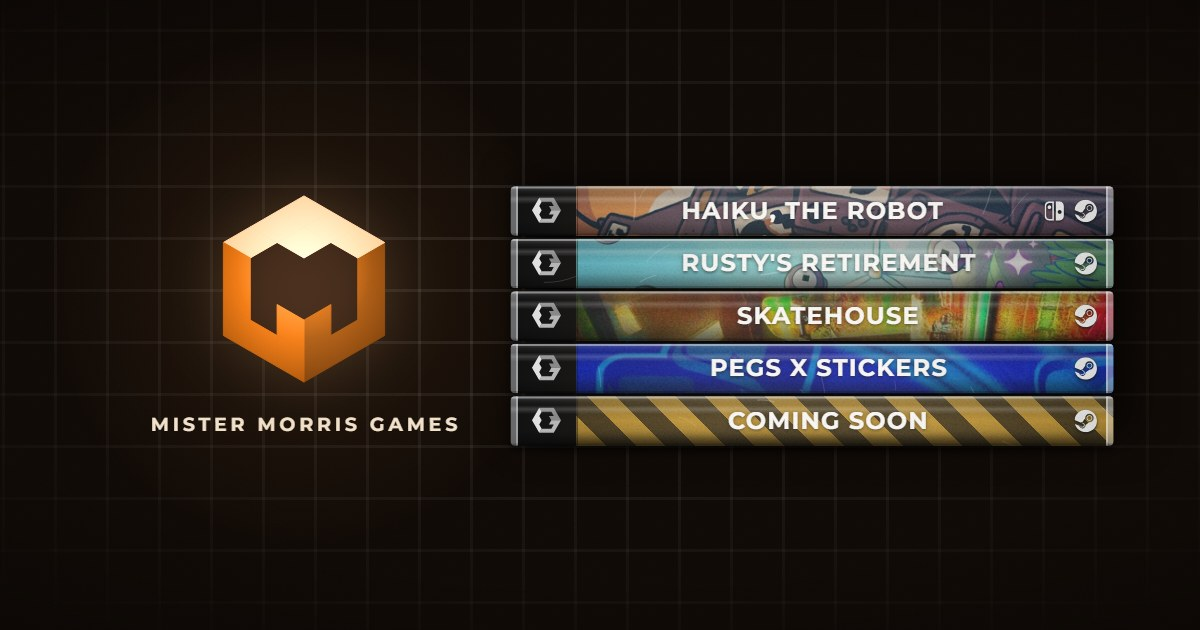
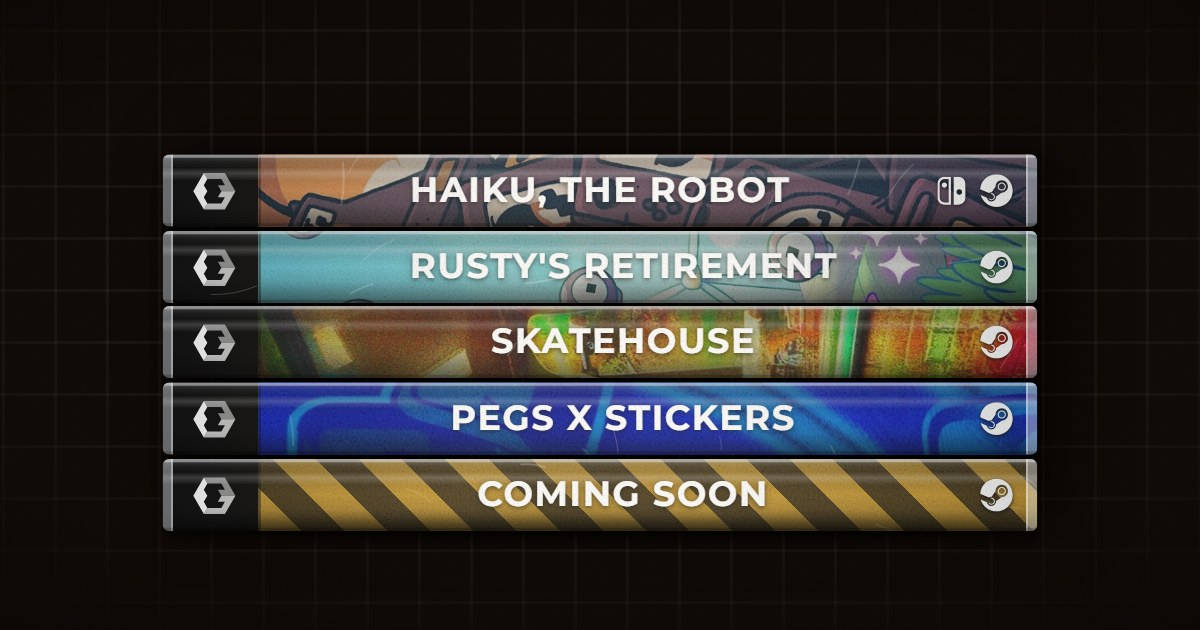
Crossed-tape Coming Soon backdrop; aligned case links; share image of the cases

diff --git a/index.html b/index.html
@@ -8,10 +8,10 @@
   <meta name="description" content="Indie games by Mister Morris Games, the studio behind Haiku, the Robot. Choose a game and take a look inside.">
   <meta name="theme-color" content="#15100c">
   <link rel="icon" href="favicon.svg" type="image/svg+xml">
-  <meta property="og:image" content="https://mistermorrisgames.github.io/website/images/share.jpg?v=7">
+  <meta property="og:image" content="https://mistermorrisgames.github.io/website/images/share.jpg?v=8">
   <meta property="og:image:width" content="1200">
   <meta property="og:image:height" content="630">
-  <meta property="og:image:alt" content="The Mister Morris Games cube logo beside a stack of game cases: Haiku, the Robot; Rusty's Retirement; Skatehouse; Pegs X Stickers; and one coming soon">
+  <meta property="og:image:alt" content="A stack of game cases: Haiku, the Robot; Rusty's Retirement; Skatehouse; Pegs X Stickers; and one coming soon">
   <meta property="og:type" content="website">
   <meta property="og:site_name" content="Mister Morris Games">
   <meta property="og:url" content="https://mistermorrisgames.github.io/website/">

diff --git a/styles.css b/styles.css
@@ -783,11 +783,14 @@ body::before {
   color: var(--paper-ink);
 }
 .info-links[hidden] { display: none; }
-.info-links .info-heading { margin: 0 0 10px; }
-.info-links ul { list-style: none; margin: 0; padding: 0; display: flex; flex-wrap: wrap; gap: 6px; }
-.info-links-body { display: grid; grid-template-columns: 1fr auto; column-gap: 12px; }
+.info-links .info-heading { margin: 0; }
+.info-links ul { list-style: none; margin: 0 0 0 -7px; padding: 0; display: flex; flex-wrap: wrap; gap: 6px; }
+.info-links-body { display: grid; grid-template-columns: 1fr auto; column-gap: 12px; row-gap: 6px; align-items: center; }
 .info-links-body > :not(.info-extra) { grid-column: 1; }
-.info-extra { grid-column: 2; grid-row: 1 / span 2; display: flex; flex-direction: column; align-items: flex-end; gap: 12px; }
+.info-extra { display: contents; }
+.info-extra > * { grid-column: 2; justify-self: end; }
+.info-extra > :first-child { grid-row: 1; }
+.info-extra > :nth-child(2) { grid-row: 2; }
 .press-link {
   font: 700 11px/1.4 var(--font-display);
   letter-spacing: .18em;
